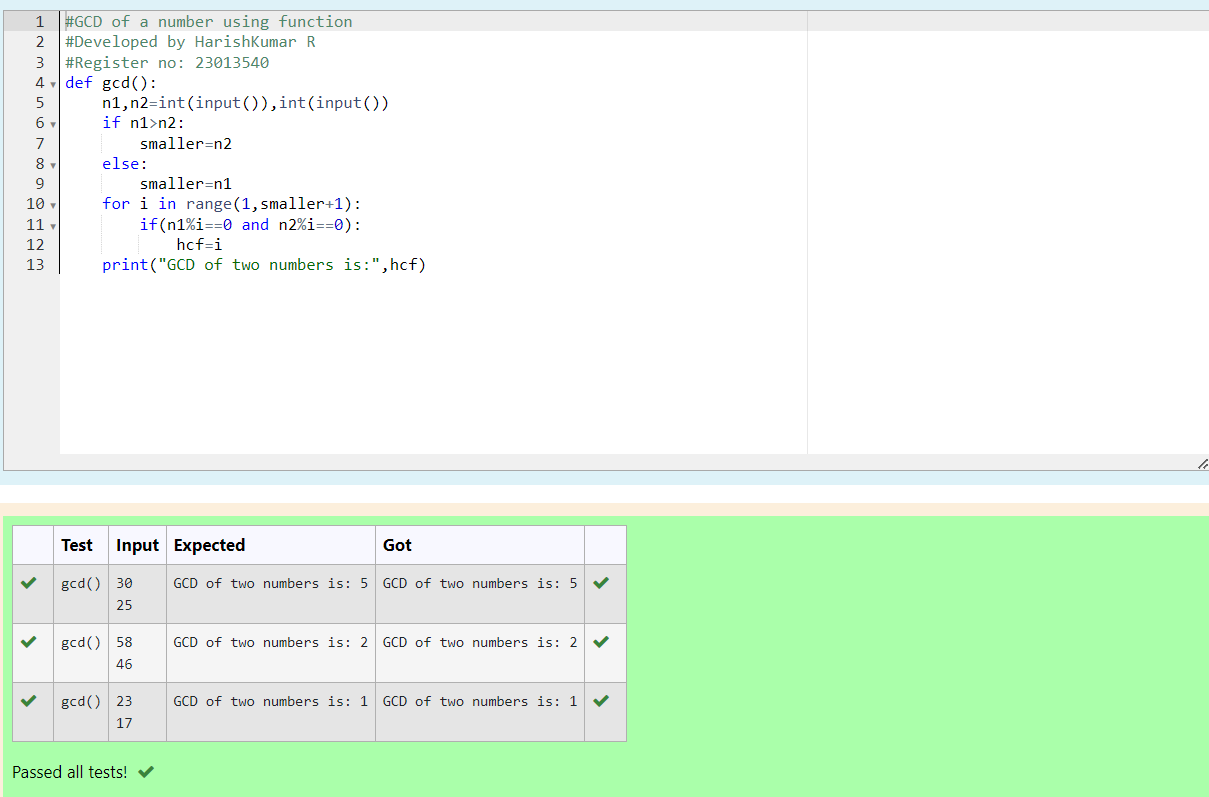
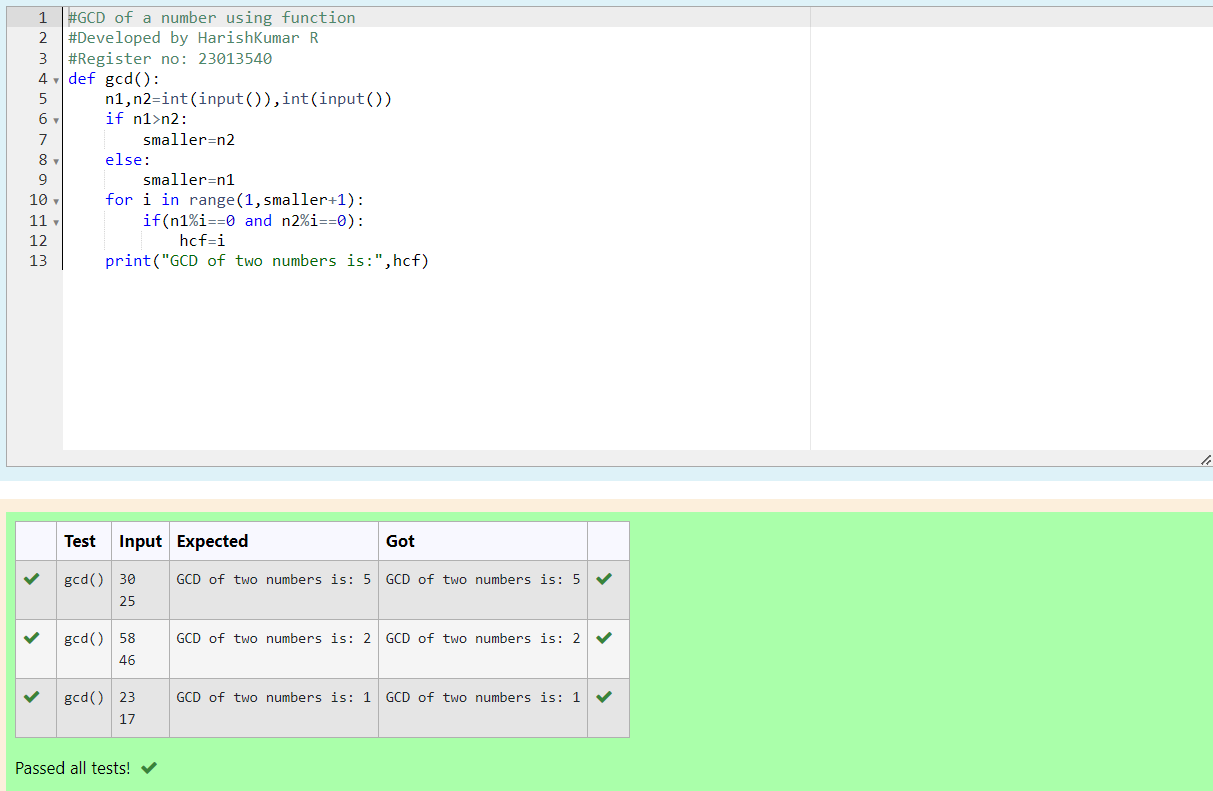
success

Changed region(s): [[0.0, 0.6675, 0.5203, 1.0], [0.0, 0.0, 0.3672, 0.3641], [0.9793, 0.5765, 1.0, 0.6068]]

diff --git a/README.md b/README.md
@@ -14,16 +14,24 @@ To write a program to find the GCD of two numbers using function.
 4. Use for() and if() loop to find the GCD of the two numbers.
 
 ## Program:
-```
-/*
-Program to find the gcd of two number using function.
-Developed by: 
-RegisterNumber:  
-*/
+```py
+#GCD of a number using function
+#Developed by HarishKumar R
+#Register no: 23013540
+def gcd():
+    n1,n2=int(input()),int(input())
+    if n1>n2:
+        smaller=n2
+    else:
+        smaller=n1
+    for i in range(1,smaller+1):
+        if(n1%i==0 and n2%i==0):
+            hcf=i
+    print("GCD of two numbers is:",hcf)
 ```
 
 ## Output:
-![gcd of two number](gcd.png)
+![](./output.png)
 
 
 ## Result:
